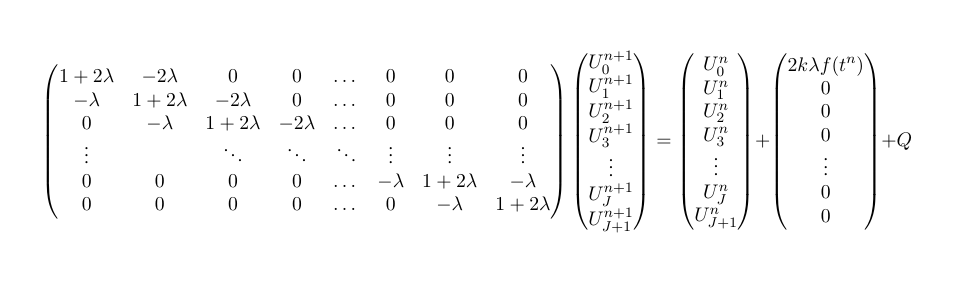
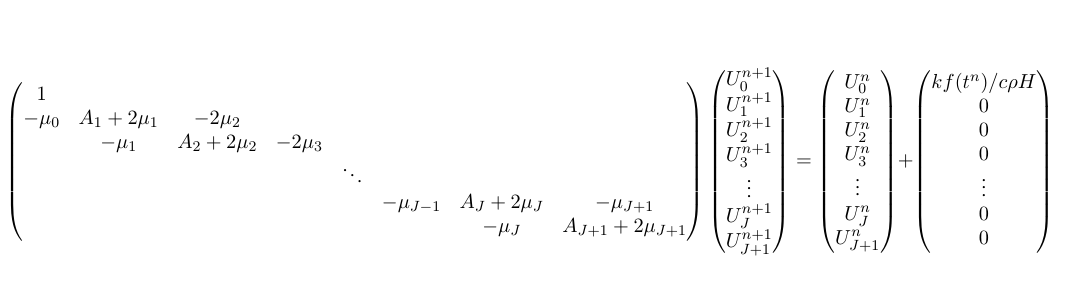
Fix readme, model, take more care with dimensional analysis

diff --git a/main.py b/main.py
@@ -10,21 +10,22 @@ def main():
     tank_xl = 4.0                                                           # left end point of tank (meters)
     tank_xr = 6.0                                                           # left end point of tank (meters)
     t0 = 0.0                                                                # initial time (days)
-    tf = 10.0                                                                # final time (days)
+    tf = 10.0                                                               # final time (days)
     J = 200                                                                 # number of x intervals
     N = 2000                                                                # number of t intervals
     seconds_per_day = 86400
-    beta_tank = 0.75e-6 * seconds_per_day                                   # concrete heat tank. I choose a material with lower diffusivity to represent an insulated
-    beta_rod = 22.8e-6 * seconds_per_day                                    # iron rod
-    solar_energy_density = 1000.0 * seconds_per_day                         # joules / (day * meter^2)
-    rod_area = 0.025 ** 2 * np.pi                                           # cross sectional area of rod in meters
-    tank_area = 0.5 ** 2 * np.pi                                            # cross sectional area of tank in meters
-    solar_panel_area = 1.0                                                  # in meter^2
-    pump_speed_in_rod = 0.00001 * seconds_per_day                           # meters per day. Small number to represent slight increase in beta_rod. If it is too much, then heat flows to the end and accumulates
-    heat_bleed_width = 0.05
-    heat_bleed_amount = -80000                                              # Joules used per day. This appears touchy and dependent on J, N sizes
+    beta_tank = 0.5 * 0.75e-6 * seconds_per_day                             # concrete heat tank thermal diffusivity. Multiplying by 1/2 acts as a better store of heat
+    beta_rod = 5 * 22.8e-6 * seconds_per_day                                # iron rod thermal diffusivity. Multiplying by 5 represents
+    rod_spec_heat = 460.548                                                 # iron specific heat J / (kg * K)
+    rod_dens = 7300                                                         # iron density kg / m^3
+    solar_panel_width = 0.01                                                # solar panel width in meters. Only need solar panel width assuming a rectangular panel
+    abs_rate = 0.215                                                        # Absorption percentage of solar flux
+    solar_energy_flux = (1000.0 * abs_rate * seconds_per_day /              # solar energy flux at earth surface at equator. Includes specific heat, density, and width for later convenience
+                         (rod_spec_heat * rod_dens * solar_panel_width))
+    rod_area = 0.025 ** 2 * np.pi                                           # cross sectional area of rod in meters^2
+    tank_area = 0.5 ** 2 * np.pi                                            # cross sectional area of tank in meters^2
 
-    # Set thermal diffusivities for system
+    # Set thermal diffusivities for system dependent on spatial variable
     def beta(x):
         ret_beta = np.zeros(len(x))
         for i in range(0, len(x)):
@@ -34,6 +35,7 @@ def main():
                 ret_beta[i] = beta_rod
         return ret_beta
 
+    # Set areas for system dependent on spatial variable
     def area(x):
         ret_area = np.zeros(len(x))
         for i in range(0, len(x)):
@@ -43,21 +45,10 @@ def main():
                 ret_area[i] = rod_area
         return ret_area
 
-    # Take into account the contiuity of fluids
-    def pump_speed(x):
-        return np.zeros(len(x))
-        # Model not working like I thought it would
-        # ret_speed = np.zeros(len(x))
-        # for i in range(0, len(x)):
-        #     if tank_xl <= x[i] <= tank_xr:
-        #         ret_speed[i] = pump_speed_in_rod * rod_area / tank_area
-        #     else:
-        #         ret_speed[i] = pump_speed_in_rod
-        # return ret_speed
-
-    # simulate day and night
+    # simulate day and night.
     def solar_flux(t):
-        flux = solar_energy_density * np.sin(2.0 * np.pi * t)
+        flux = solar_energy_flux * np.sin(2.0 * np.pi * t)
+        # Uncomment the below for insulation during night
         # if flux < 0.0:
         #     return 0.0
         return flux
@@ -66,16 +57,13 @@ def main():
     def initial_conds(x):
         return 0.0 * x
 
+    # Assume no source
     def source(x):
-        ret_source = np.zeros(len(x))
-        for i in range(0, len(x)):
-            if tank_xl <= x[i] <= tank_xl + heat_bleed_width:
-                ret_source[i] = heat_bleed_amount
-        return ret_source
+        return np.zeros(len(x))
 
+    # Solve system and plot solutions
     solver = be.BackwardEuler(rod_xl=rod_xl, rod_xr=rod_xr, tank_xl=tank_xl, tank_xr=tank_xr, t0=t0, tf=tf, beta=beta,
-                              J=J, N=N, solar_flux=solar_flux, area=area, pump_speed=pump_speed,
-                              solar_panel_area=solar_panel_area, source=source, initial_conds=initial_conds)
+                              J=J, N=N, solar_flux=solar_flux, area=area, source=source, initial_conds=initial_conds)
     solver.solve()
     solver.plot_solution(tank_only=False)
     solver.plot_solution(tank_only=True)

diff --git a/src/BackwardEuler.py b/src/BackwardEuler.py
@@ -7,7 +7,7 @@ from matplotlib import cm
 
 
 class BackwardEuler:
-    def __init__(self, rod_xl, rod_xr, tank_xl, tank_xr, t0, tf, beta, J, N, solar_flux, initial_conds, area=lambda x: np.ones(len(x)), solar_panel_area=1.0, pump_speed=lambda x: np.zeros(len(x)), source=None):
+    def __init__(self, rod_xl, rod_xr, tank_xl, tank_xr, t0, tf, beta, J, N, solar_flux, initial_conds, area=lambda x: np.ones(len(x)), source=None):
         """
         BackwardEuler class to save heat state for analysis
 
@@ -35,9 +35,7 @@ class BackwardEuler:
         :type initial_conds: function
         :param area: optional cross-sectional area function of the rod. Default is 1
         :type area: function
-        :param solar_panel_area: optional area of solar panel. Default is 1
-        :type solar_panel_area: float
-        :param source: this is the optional source term. For our purposes it is none but it could be useful in modeling lateral heat loss
+        :param source: optional source term. For our purposes it is none but it could be useful in modeling lateral heat loss
         :type source: function
         """
         self.rod_xl = rod_xl
@@ -52,8 +50,6 @@ class BackwardEuler:
         self.solar_flux = solar_flux
         self.initial_conds = initial_conds
         self.area = area
-        self.solar_panel_area = solar_panel_area
-        self.pump_speed = pump_speed
         self.source = source
 
         self.L = self.rod_xr - self.rod_xl                                  # Total system length
@@ -68,8 +64,7 @@ class BackwardEuler:
         self.areas = np.array(self.area(self.x))
         if self.source is None:
             self.source = lambda x: 0.0 * x
-        self.lambd = self.betas * self.k / self.h**2 * self.areas
-        self.pump_speeds = np.array(self.pump_speed(self.x))
+        self.mu = self.betas * self.k / self.h ** 2 * self.areas           # Make mu include diffusivity and cross-sectional area for simplicity
 
         self.U = np.zeros((self.J + 1, self.N + 1))
 
@@ -80,17 +75,20 @@ class BackwardEuler:
         :return:
         """
         # Construct system
-        maindiag = -2.0 * np.ones(self.J + 1) * self.lambd
-        subdiag = np.ones(self.J + 1) * self.lambd
+        maindiag = -2.0 * np.ones(self.J + 1) * self.mu
+        subdiag = np.ones(self.J + 1) * self.mu
         # subdiag[self.J - 1] *= 2.0                                         # Homogeneous Neumann conditions
         supdiag = np.ones(self.J + 1)
-        supdiag[1] = 2
-        supdiag *= self.lambd
-        # bottomdiag = np.ones(self.J + 1) * self.lambd                      # Continuity at endpoints
+        # supdiag[1] = 2                                                     # Add no flux term to first row in matrix
+        supdiag[1] = 0
+        maindiag[0] = 0
+        supdiag *= self.mu
+        # bottomdiag = np.ones(self.J + 1) * self.mu                         # Continuity at endpoints
         bottomdiag = np.zeros(self.J + 1)
         data = np.array([bottomdiag.tolist(), subdiag.tolist(), maindiag.tolist(), supdiag.tolist()])
         M = sp.spdiags(data, np.array([-1 * self.J, -1, 0, 1]), self.J + 1, self.J + 1)
-        Idiag = np.ones(self.J + 1) * self.areas
+        Idiag = np.ones(self.J + 1)
+        Idiag[1:] *= self.areas[1:]
         A = sp.spdiags(Idiag, np.array([0]), self.J + 1, self.J + 1) - M
 
         # Set initial conditions
@@ -99,18 +97,15 @@ class BackwardEuler:
         # Solve system
         for i in range(1, self.N):
             b = np.zeros(self.J + 1)
-            b[0] = 2 * self.k * self.lambd[0] / self.areas[0] * self.solar_flux(self.t[i])
+            b[0] = self.k * self.solar_flux(self.t[i - 1])
             b += self.areas * self.source(self.x)
 
-            # Add pump term
-            vu = np.zeros(len(self.U[:, i]))
-            vu[1:self.J] = self.U[2:self.J + 1, i] * self.areas[2: self.J + 1]*self.pump_speeds[2: self.J + 1] - self.U[0: self.J - 1, i] * self.areas[0: self.J - 1]*self.pump_speeds[0: self.J - 1]
-            vu[0] = self.U[1, i]*self.areas[1]*self.pump_speeds[1] - self.U[self.J, i]*self.areas[self.J]*self.pump_speeds[self.J]
-            vu[self.J] = self.U[0, i]*self.areas[0]*self.pump_speeds[0] - self.U[self.J - 1, i]*self.areas[self.J - 1]*self.pump_speeds[self.J - 1]
+            area_temp = np.array(self.areas)
+            area_temp[0] = 1
+            self.U[:, i + 1] = (la.spsolve(A, area_temp * self.U[:, i] + b))
 
-            self.U[:, i + 1] = (la.spsolve(A, self.areas * self.U[:, i] + b + self.k * vu / (2.0 * self.h)))
-            self.U[self.J, i + 1] = 0.0                                    # Homogeneous Dirichlet condition
-            self.U[:, i + 1] = self.U[:, i + 1].clip(min=0)                # Don't allow negative heat
+            # self.U[self.J, i + 1] = 0.0                                    # Homogeneous Dirichlet condition
+            # self.U[:, i + 1] = self.U[:, i + 1].clip(min=0)                # Don't allow negative heat
 
     # adapted from https://matplotlib.org/mpl_toolkits/mplot3d/tutorial.html
     def plot_solution(self, tank_only=False):
@@ -150,7 +145,7 @@ class BackwardEuler:
         # Customize the z axis.
         ax.set_xlabel("x (meters)")
         ax.set_ylabel("t (days)")
-        #ax.set_zlabel("Heat Energy (Joules)")
+        ax.set_zlabel("Temperature (Kelvins from equilibrium)")
 
         # Add a color bar which maps values to colors.
         plt.show()

diff --git a/README.md b/README.md
@@ -4,29 +4,39 @@ This repository is for the heat test required for the computational physics inte
 
 ## Model
 For simplicity I chose to model this system as heat transfer throughout a rod of 
-lenght L with lateral insulation where the material of the rod changes at the storage tank. 
-Thus the density, thermal conductivities, and 
-specific heats vary as a function of x. Initially I believed continuity prescription was physical but
-after correcting a bug I saw that it was not. I am currently using homogeneous Dirichlet conditions.
-Additionally, the pump direction and the solar panel give a heat flux rightward through the rod so
-d/dx U(xl) = f(t) where f(t) > 0 during the day, and negative at night. It is
+lenght L with lateral insulation where the material of the rod, as well as its cross sectional area,
+changes at the storage tank. Thus the area, density, thermal conductivity, and 
+specific heat vary as a function of x. This gives us the PDE
+
+![](fig5.png)
+
+I assume that the pump direction and the solar panel give a heat flux rightward through the rod so
+d/dx U(xl) = f(t) where f(t) > 0 during the day, and non-positive at night. It is
 my hope that this model captures the behavior of the system.
 
 ## Simulation
-For this system, I will use backward Euler to ensure consistency and stability 
-considerations of the solution. Also, the solar flux is done using a centered difference about x = 0. 
-The discussion above applied to backward Euler gives the finite difference scheme below:
+For this system, I will use Backward Euler to ensure consistency and stability 
+considerations of the solution. Additionally, we have the flux condition at the solar panel given using
+Forward Euler by
+
+![](fig4.png)
+ 
+Because of the varying properties of the system, we must take care to use the correct physical properties at
+any given spatial segment. The Backward Euler formula is then
+
+![](fig6.png)
+
+where mu = k/h^2. The discussion above, writing mu_j = mu * A_j * k_j gives the finite difference scheme below:
 
 ![](fig1.png)
 
-Here Q is the source term, h is the x-step width, k is the t-step width, and lambda = beta * k / h^2 
-where beta is the thermal diffusivity. Note that lambda changes for the different medium.
+Here I drop the source term because it complicates the simulation for this problem.
 ## Results
 Suppose the length of the total system is 10 meters and the tank is located from
 4 <= x <= 6. Below are the results for simulating using thermal diffusivity for the rod being 
 22.8e-6 (iron) and diffusivity of the tank 0.75e-6 (concrete). The solar heat flux
-is assumed to be 1000 (which is from https://ag.tennessee.edu/solar/Pages/What%20Is%20Solar%20Energy/Sun%27s%20Energy.aspx).
-After scaling all units to days from seconds, we get the surfaces representing the evolution of heat over 3 days.
+is assumed to be 1000 W/m^2 (which is from https://ag.tennessee.edu/solar/Pages/What%20Is%20Solar%20Energy/Sun%27s%20Energy.aspx).
+After scaling all units to days from seconds, we get the surfaces representing the evolution of heat over 10 days.
 
 ![](fig2.png)
 *Evolution of heat energy in the system*
@@ -34,6 +44,9 @@ After scaling all units to days from seconds, we get the surfaces representing t
 ![](fig3.png)
 *Evolution of heat energy in the tank*
 
+This behavior appears physical given the parameters of the problem. Modeling the pump speed proved difficult.
+One way to include this physical property is to multiply the thermal diffusivities by a factor larger than 1, 
+after appropriately scaling the multipliers to follow A_1 v_1 = A_2 v_2.
 
 ## Dependencies
 This project depends on an installation of `Python 3.7`. The following must also be
